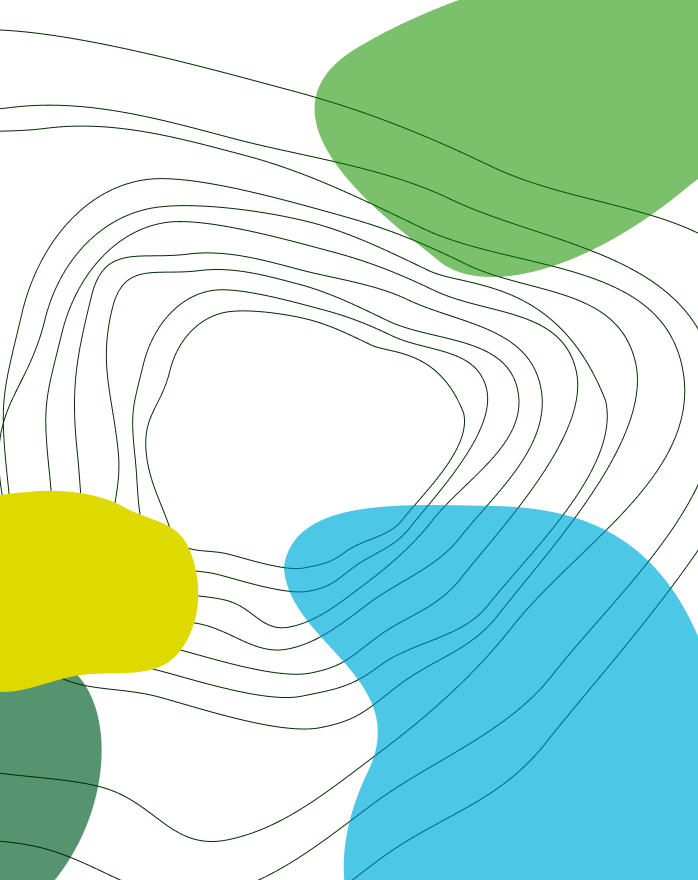
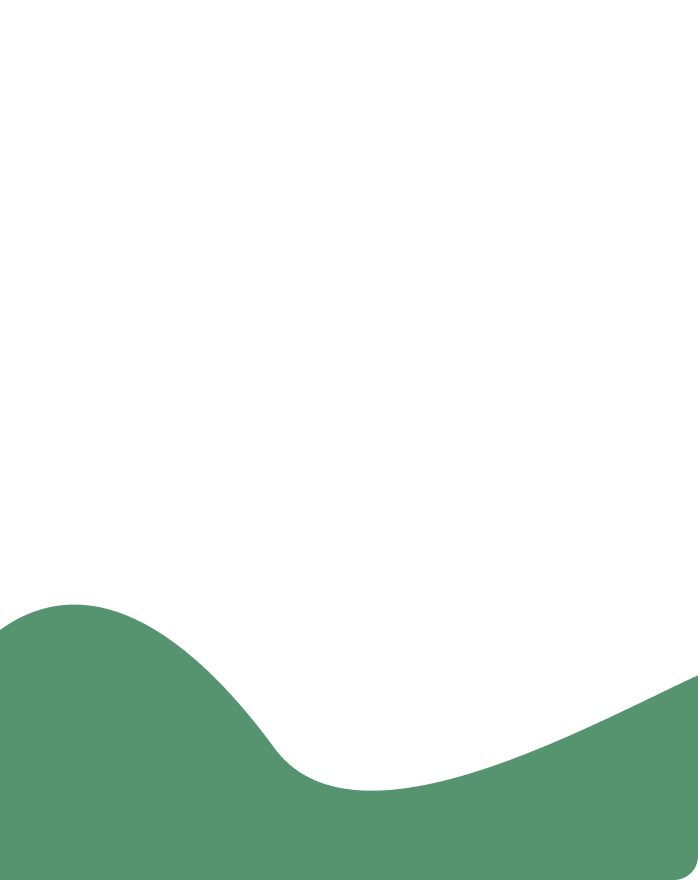
feat: enhance album and sticker components with improved styling and accessibility
- Added brightness filter to background image in album-page for better visual contrast.
- Refactored FigurinhaNameTag to support overlay positioning and customizable background color.
- Updated StickerSlot to provide clearer labeling for missing stickers and improved visual feedback.
- Enhanced reveal-step and sticker-onboarding components to utilize the updated FigurinhaNameTag for better user experience.
- Updated binary images for album backgrounds to improve visual quality.

diff --git a/components/album/album-page.tsx b/components/album/album-page.tsx
@@ -91,6 +91,7 @@ function PageShell({
           backgroundImage: `url(${decoration})`,
           backgroundPosition: side === "left" ? "right" : "left",
           backgroundSize: "auto",
+          filter: "brightness(0.8)",
         }}
       />
       <div className="relative z-10 flex flex-1 flex-col">{children}</div>
@@ -215,29 +216,24 @@ function ProfilePage({ page, side, userStickerUrl, userDisplayName, inFlipBook }
 
         <div className="flex flex-1 flex-col items-center justify-center">
           {hasSticker ? (
-            <div className="flex flex-col items-center">
-              <div
-                className="relative overflow-hidden shadow-2xl shadow-black/30"
-                style={{
-                  width: "clamp(160px, 38vw, 280px)",
-                  aspectRatio: "352 / 503",
-                  borderRadius: 16,
-                }}
-              >
-                <Image
-                  src={userStickerUrl!}
-                  alt="Sua figurinha personalizada"
-                  fill
-                  className="object-cover"
-                  sizes="(max-width: 768px) 38vw, 280px"
-                  priority
-                />
-              </div>
+            <div
+              className="relative overflow-hidden shadow-2xl shadow-black/30"
+              style={{
+                width: "clamp(160px, 38vw, 280px)",
+                aspectRatio: "352 / 503",
+                borderRadius: 16,
+              }}
+            >
+              <Image
+                src={userStickerUrl!}
+                alt="Sua figurinha personalizada"
+                fill
+                className="object-cover"
+                sizes="(max-width: 768px) 38vw, 280px"
+                priority
+              />
               {userDisplayName ? (
-                <FigurinhaNameTag
-                  name={userDisplayName}
-                  className={inFlipBook ? "text-base sm:text-lg" : undefined}
-                />
+                <FigurinhaNameTag name={userDisplayName} overlay />
               ) : null}
             </div>
           ) : (

diff --git a/components/sticker/figurinha-name-tag.tsx b/components/sticker/figurinha-name-tag.tsx
@@ -1,17 +1,47 @@
+import { rarityTheme } from "@/lib/rarity";
+import { cn } from "@/lib/utils";
+
 interface FigurinhaNameTagProps {
   name: string;
+  bgColor?: string;
+  fullWidth?: boolean;
+  /** Posiciona sobre a figurinha — o pai deve ser `relative` */
+  overlay?: boolean;
   className?: string;
 }
 
-export function FigurinhaNameTag({ name, className }: FigurinhaNameTagProps) {
+export function FigurinhaNameTag({
+  name,
+  bgColor,
+  fullWidth,
+  overlay = false,
+  className,
+}: FigurinhaNameTagProps) {
   const label = name.trim();
   if (!label) return null;
 
-  return (
-    <p
-      className={`mt-3 text-center font-display text-lg font-bold uppercase leading-tight text-white sm:text-xl ${className ?? ""}`}
+  const tag = (
+    <span
+      className={cn(
+        "flex items-end justify-center rounded-card rounded-br-none px-3 py-1.5 text-center font-display text-sm font-bold uppercase leading-tight text-white sm:px-4 sm:py-2 sm:text-lg sm:leading-8",
+        fullWidth && "w-full",
+      )}
+      style={{ backgroundColor: bgColor ?? rarityTheme("common").nameTag }}
     >
       {label}
-    </p>
+    </span>
+  );
+
+  if (!overlay) return tag;
+
+  return (
+    <div
+      className={cn(
+        "pointer-events-none absolute inset-x-2 bottom-[10%] z-10 flex justify-center sm:inset-x-3 sm:bottom-[12%] md:bottom-16",
+        className,
+      )}
+    >
+      {tag}
+    </div>
   );
 }

diff --git a/components/album/sticker-slot.tsx b/components/album/sticker-slot.tsx
@@ -290,8 +290,17 @@ export function StickerSlot({
   const animation   = sticker?.rarities?.animation_type ?? "none";
   const isOwned     = owned > 0;
   const canPaste    = isOwned && !isPasted && !isFlying && sticker !== null;
+  const isMissing   = !isOwned && sticker !== null;
   const isComplete  = (isPasted || justPasted) && !isFlying;
   const isAwaitingLand = isFlying;
+
+  const slotLabel = isComplete
+    ? sticker?.name
+    : canPaste
+      ? `Colar ${sticker?.name ?? `figurinha ${slotNumber}`}`
+      : isMissing
+        ? `${sticker.name}, ainda não obtida`
+        : `Espaço ${slotNumber}`;
 
   const onFlightComplete = useCallback(() => {
     setIsFlying(false);
@@ -349,6 +358,7 @@ export function StickerSlot({
         type="button"
         layout
         data-slot-id={slotId}
+        aria-label={slotLabel}
         className={[
           `relative block ${aspectClass} w-full overflow-hidden rounded-input border-[5px] text-left transition-colors duration-300`,
           isComplete
@@ -357,13 +367,17 @@ export function StickerSlot({
             ? "border-dashed bg-white/5"
             : canPaste
             ? "cursor-pointer border-dashed bg-white/10 hover:bg-white/20"
-            : "border-white/15 bg-black/20",
+            : isMissing
+            ? "cursor-default border-dashed bg-black/15"
+            : "cursor-default border-white/15 bg-black/20",
         ].join(" ")}
         style={
           isComplete
             ? { borderColor: color }
             : isAwaitingLand || canPaste
             ? { borderColor: `${color}b3` }
+            : isMissing
+            ? { borderColor: `${color}55` }
             : undefined
         }
         onClick={() => {
@@ -464,8 +478,27 @@ export function StickerSlot({
                 )}
               </div>
             ) : (
-              <div className="flex h-full items-center justify-center">
-                <Lock size={16} className="text-white/30" />
+              <div className="relative h-full w-full">
+                {sticker ? (
+                  <>
+                    <Image
+                      src={sticker.image_url}
+                      alt=""
+                      fill
+                      className="object-cover grayscale opacity-35"
+                      sizes={imageSizes}
+                    />
+                    <div className="absolute inset-0 flex items-center justify-center bg-verde-escuro-capa/25">
+                      <span className="flex size-8 items-center justify-center rounded-full bg-surface/90 shadow-sm sm:size-9">
+                        <Lock size={14} className="text-verde-escuro-300" aria-hidden />
+                      </span>
+                    </div>
+                  </>
+                ) : (
+                  <div className="flex h-full items-center justify-center">
+                    <Lock size={16} className="text-white/30" aria-hidden />
+                  </div>
+                )}
               </div>
             )}
           </div>

diff --git a/components/sticker/reveal-step.tsx b/components/sticker/reveal-step.tsx
@@ -10,6 +10,7 @@ import { FigurinhaCardScaler } from "./figurinha-card-scaler";
 import { FigurinhaNameTag } from "./figurinha-name-tag";
 import { StickerCard } from "./sticker-card";
 import { STICKER_CARD } from "@/lib/sticker-card";
+import { cn } from "@/lib/utils";
 
 interface RevealStepProps {
   stickerUrl: string;
@@ -97,15 +98,20 @@ export function RevealStep({ stickerUrl, displayName, onRecreate }: RevealStepPr
                 <StickerCard
                   stickerSrc={stickerUrl}
                   photoAlt="Sua figurinha personalizada"
-                />
+                >
+                  <FigurinhaNameTag
+                    name={displayName}
+                    overlay
+                    className={cn(
+                      "transition-opacity duration-500",
+                      revealed ? "opacity-100" : "opacity-0",
+                    )}
+                  />
+                </StickerCard>
               </div>
             </div>
           </div>
         </FigurinhaCardScaler>
-        <FigurinhaNameTag
-          name={displayName}
-          className={revealed ? "opacity-100" : "opacity-0"}
-        />
       </div>
 
       <div

diff --git a/components/sticker/sticker-onboarding.tsx b/components/sticker/sticker-onboarding.tsx
@@ -78,9 +78,10 @@ export function StickerOnboarding({
             <StickerCard
               stickerSrc={stickerUrl}
               photoAlt={`Figurinha de ${displayName}`}
-            />
+            >
+              <FigurinhaNameTag name={displayName} overlay />
+            </StickerCard>
           </FigurinhaCardScaler>
-          <FigurinhaNameTag name={displayName} />
         </div>
 
         <div className="flex w-full max-w-sm flex-col items-center gap-3">